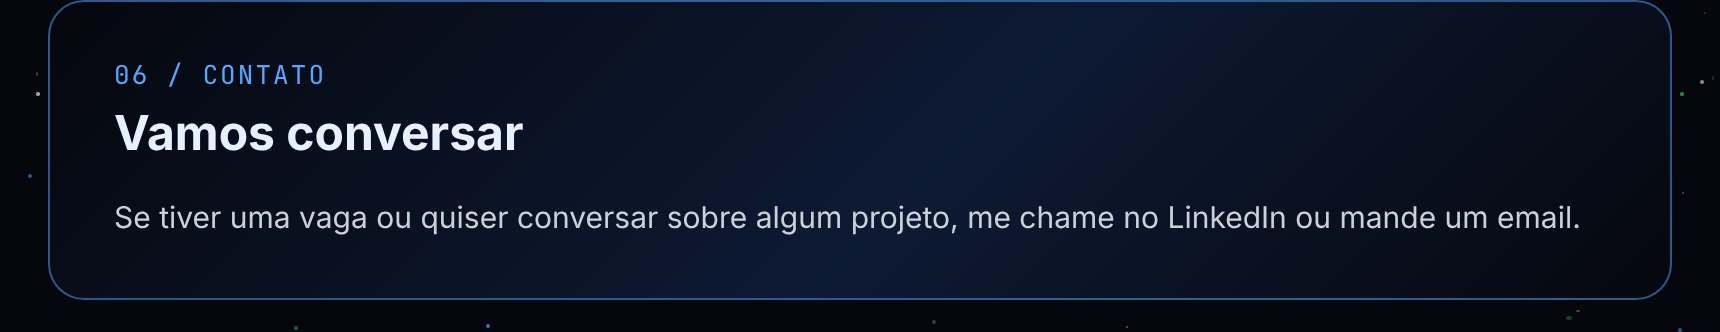
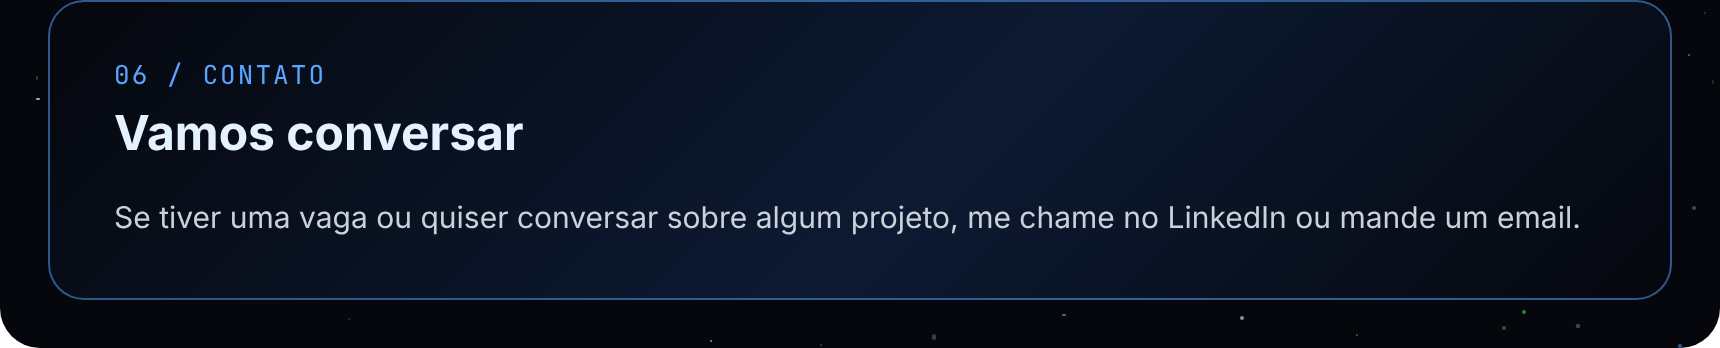
docs: remover botões de contato duplicados do fim

diff --git a/scripts/readme-sections.html b/scripts/readme-sections.html
@@ -30,8 +30,7 @@
   .third p { font-size: 12.5px; line-height: 1.5; margin-bottom: 7px; }
   .top { padding-top: 24px; }
   .top.l { border-top-left-radius: 20px; } .top.r { border-top-right-radius: 20px; }
-  .bottom { padding-bottom: 28px; }
-  .bottom.c-l { border-bottom-left-radius: 20px; } .bottom.c-r { border-bottom-right-radius: 20px; }
+  .end { padding-bottom: 24px; border-bottom-left-radius: 20px; border-bottom-right-radius: 20px; }
   .card { background: linear-gradient(135deg, #05070d 0%, #0d1a33 55%, #05070d 100%); border: 1.5px solid rgba(88,166,255,.5); border-radius: 18px; padding: 28px 32px; }
   .kicker { font-family: 'JetBrains Mono', ui-monospace, Menlo, Consolas, monospace; font-size: 13px; color: var(--blue); letter-spacing: .08em; margin: 0 0 6px; }
   h2 { font-size: 24px; font-weight: 700; margin: 0 0 16px; color: var(--ink); }
@@ -142,14 +141,12 @@
   </ul>
 </div></div>
 
-<div class="slice" data-shot="contact"><div class="card">
+<div class="slice end" data-shot="contact"><div class="card">
   <div class="kicker">06 / CONTATO</div>
   <h2>Vamos conversar</h2>
   <p>Se tiver uma vaga ou quiser conversar sobre algum projeto, me chame no LinkedIn ou mande um email.</p>
 </div></div>
 
-<div class="half c-l bottom c-l" data-shot="contact-li"><div class="btn btn-li">in&nbsp; LinkedIn</div></div>
-<div class="half c-r bottom c-r" data-shot="contact-mail"><div class="btn btn-mail">✉&nbsp; Email</div></div>
 
 </body>
 </html>

diff --git a/README.md b/README.md
@@ -1,2 +1,2 @@
 <!-- README em imagens: cada peça traz o mesmo fundo e fica empilhada (align="top") sem espaço, formando um plano de fundo contínuo. Gerar PNGs: node scripts/build_readme_images.js -->
-<p><img src="./assets/readme/top-pt.png" alt="Português (atual)" width="50%" align="top" /><a href="versions/README-en.md"><img src="./assets/readme/top-en.png" alt="English" width="50%" align="top" /></a><img src="./assets/hero-pt-panel.svg" alt="Rafael Tanimoto — backend Java, Spring Boot e Android" width="100%" align="top" /><img src="./assets/readme/chips.png" alt="Aberto a oportunidades · São Paulo, remoto ou híbrido · inglês fluente" width="100%" align="top" /><a href="https://www.linkedin.com/in/rafaeltanimoto/"><img src="./assets/readme/social-li.png" alt="LinkedIn" width="50%" align="top" /></a><a href="mailto:rafaelandradetanimoto@gmail.com"><img src="./assets/readme/social-mail.png" alt="Email" width="50%" align="top" /></a><img src="./assets/city-panel.svg" alt="Cidade animada das minhas contribuições no GitHub" width="100%" align="top" /><img src="./assets/readme/about.png" alt="01 / Sobre: backend Java e Spring Boot, apps Android em Kotlin. Procuro vaga júnior em backend Java ou Android, remota ou híbrida." width="100%" align="top" /><img src="./assets/overview-panel.svg" alt="Estatísticas do GitHub e linguagens mais usadas" width="100%" align="top" /><img src="./assets/readme/cases-title.png" alt="02 / Estudos de caso" width="100%" align="top" /><a href="https://github.com/Famel-svg/SafePix_Async"><img src="./assets/readme/case-1.png" alt="Estudo de caso 1: Pagamento que não duplica — SafePix Async" width="33.372%" align="top" /></a><a href="https://github.com/Famel-svg/Sistema_Auditoria_PIX"><img src="./assets/readme/case-2.png" alt="Estudo de caso 2: Quem mexeu nisso? — Auditoria PIX" width="33.256%" align="top" /></a><a href="https://github.com/Famel-svg/estoque-reserva"><img src="./assets/readme/case-3.png" alt="Estudo de caso 3: O último item do estoque — Estoque Reserva" width="33.372%" align="top" /></a><img src="./assets/readme/projects-title.png" alt="03 / Todos os projetos" width="100%" align="top" /><a href="https://github.com/Famel-svg/SafePix_Async"><img src="./assets/readme/p-safepix.png" alt="SafePix Async" width="50%" align="top" /></a><a href="https://github.com/Famel-svg/Sistema_Auditoria_PIX"><img src="./assets/readme/p-auditoria.png" alt="Auditoria PIX" width="50%" align="top" /></a><a href="https://github.com/Famel-svg/estoque-reserva"><img src="./assets/readme/p-estoque.png" alt="Estoque Reserva" width="50%" align="top" /></a><a href="https://github.com/Famel-svg/reserva-salas"><img src="./assets/readme/p-salas.png" alt="Reserva de Salas" width="50%" align="top" /></a><a href="https://github.com/Famel-svg/biblioteca-emprestimos"><img src="./assets/readme/p-biblioteca.png" alt="Biblioteca Empréstimos" width="50%" align="top" /></a><a href="https://github.com/Famel-svg/auth-rbac-starter"><img src="./assets/readme/p-auth.png" alt="Auth RBAC Starter" width="50%" align="top" /></a><a href="https://github.com/Famel-svg/Sistema_De_Controle_Financeiro"><img src="./assets/readme/p-financeiro.png" alt="Controle Financeiro" width="50%" align="top" /></a><a href="https://github.com/Famel-svg/springboot_simple_store"><img src="./assets/readme/p-store.png" alt="Simple Store" width="50%" align="top" /></a><a href="https://github.com/Famel-svg/WTC_Chat"><img src="./assets/readme/p-wtc.png" alt="WTC CRM Chat" width="50%" align="top" /></a><a href="https://github.com/Famel-svg/fluxo-android"><img src="./assets/readme/p-fluxo.png" alt="Fluxo" width="50%" align="top" /></a><a href="https://github.com/Famel-svg/repforge"><img src="./assets/readme/p-repforge.png" alt="RepForge" width="50%" align="top" /></a><a href="https://github.com/Famel-svg/apk-preview-desktop"><img src="./assets/readme/p-apk.png" alt="APK Preview Desktop" width="50%" align="top" /></a><a href="https://github.com/Famel-svg/Brave_CLI"><img src="./assets/readme/p-brave.png" alt="Brave CLI" width="50%" align="top" /></a><a href="https://github.com/Famel-svg/combustiveis-sql-analytics"><img src="./assets/readme/p-combustiveis.png" alt="Combustíveis SQL Analytics" width="50%" align="top" /></a><a href="https://github.com/Famel-svg/painel-combustiveis-powerbi"><img src="./assets/readme/p-powerbi.png" alt="Painel Power BI" width="50%" align="top" /></a><img src="./assets/readme/p-empty.png" alt="" width="50%" align="top" /><img src="./assets/stack-pt-panel.svg" alt="04 / Stack: Java 21, Kotlin, SQL, Python, Spring Boot, Spring Security, JPA, PostgreSQL, Flyway, RabbitMQ, JUnit 5, Testcontainers, Docker, GitHub Actions, Jetpack Compose, Prometheus, Grafana" width="100%" align="top" /><img src="./assets/readme/education.png" alt="05 / Formação: FIAP (2026), Anhembi Morumbi (não concluído), qualificações FIAP" width="100%" align="top" /><img src="./assets/readme/contact.png" alt="06 / Contato" width="100%" align="top" /><a href="https://www.linkedin.com/in/rafaeltanimoto/"><img src="./assets/readme/contact-li.png" alt="LinkedIn" width="50%" align="top" /></a><a href="mailto:rafaelandradetanimoto@gmail.com"><img src="./assets/readme/contact-mail.png" alt="Email" width="50%" align="top" /></a></p>
+<p><img src="./assets/readme/top-pt.png" alt="Português (atual)" width="50%" align="top" /><a href="versions/README-en.md"><img src="./assets/readme/top-en.png" alt="English" width="50%" align="top" /></a><img src="./assets/hero-pt-panel.svg" alt="Rafael Tanimoto — backend Java, Spring Boot e Android" width="100%" align="top" /><img src="./assets/readme/chips.png" alt="Aberto a oportunidades · São Paulo, remoto ou híbrido · inglês fluente" width="100%" align="top" /><a href="https://www.linkedin.com/in/rafaeltanimoto/"><img src="./assets/readme/social-li.png" alt="LinkedIn" width="50%" align="top" /></a><a href="mailto:rafaelandradetanimoto@gmail.com"><img src="./assets/readme/social-mail.png" alt="Email" width="50%" align="top" /></a><img src="./assets/city-panel.svg" alt="Cidade animada das minhas contribuições no GitHub" width="100%" align="top" /><img src="./assets/readme/about.png" alt="01 / Sobre: backend Java e Spring Boot, apps Android em Kotlin. Procuro vaga júnior em backend Java ou Android, remota ou híbrida." width="100%" align="top" /><img src="./assets/overview-panel.svg" alt="Estatísticas do GitHub e linguagens mais usadas" width="100%" align="top" /><img src="./assets/readme/cases-title.png" alt="02 / Estudos de caso" width="100%" align="top" /><a href="https://github.com/Famel-svg/SafePix_Async"><img src="./assets/readme/case-1.png" alt="Estudo de caso 1: Pagamento que não duplica — SafePix Async" width="33.372%" align="top" /></a><a href="https://github.com/Famel-svg/Sistema_Auditoria_PIX"><img src="./assets/readme/case-2.png" alt="Estudo de caso 2: Quem mexeu nisso? — Auditoria PIX" width="33.256%" align="top" /></a><a href="https://github.com/Famel-svg/estoque-reserva"><img src="./assets/readme/case-3.png" alt="Estudo de caso 3: O último item do estoque — Estoque Reserva" width="33.372%" align="top" /></a><img src="./assets/readme/projects-title.png" alt="03 / Todos os projetos" width="100%" align="top" /><a href="https://github.com/Famel-svg/SafePix_Async"><img src="./assets/readme/p-safepix.png" alt="SafePix Async" width="50%" align="top" /></a><a href="https://github.com/Famel-svg/Sistema_Auditoria_PIX"><img src="./assets/readme/p-auditoria.png" alt="Auditoria PIX" width="50%" align="top" /></a><a href="https://github.com/Famel-svg/estoque-reserva"><img src="./assets/readme/p-estoque.png" alt="Estoque Reserva" width="50%" align="top" /></a><a href="https://github.com/Famel-svg/reserva-salas"><img src="./assets/readme/p-salas.png" alt="Reserva de Salas" width="50%" align="top" /></a><a href="https://github.com/Famel-svg/biblioteca-emprestimos"><img src="./assets/readme/p-biblioteca.png" alt="Biblioteca Empréstimos" width="50%" align="top" /></a><a href="https://github.com/Famel-svg/auth-rbac-starter"><img src="./assets/readme/p-auth.png" alt="Auth RBAC Starter" width="50%" align="top" /></a><a href="https://github.com/Famel-svg/Sistema_De_Controle_Financeiro"><img src="./assets/readme/p-financeiro.png" alt="Controle Financeiro" width="50%" align="top" /></a><a href="https://github.com/Famel-svg/springboot_simple_store"><img src="./assets/readme/p-store.png" alt="Simple Store" width="50%" align="top" /></a><a href="https://github.com/Famel-svg/WTC_Chat"><img src="./assets/readme/p-wtc.png" alt="WTC CRM Chat" width="50%" align="top" /></a><a href="https://github.com/Famel-svg/fluxo-android"><img src="./assets/readme/p-fluxo.png" alt="Fluxo" width="50%" align="top" /></a><a href="https://github.com/Famel-svg/repforge"><img src="./assets/readme/p-repforge.png" alt="RepForge" width="50%" align="top" /></a><a href="https://github.com/Famel-svg/apk-preview-desktop"><img src="./assets/readme/p-apk.png" alt="APK Preview Desktop" width="50%" align="top" /></a><a href="https://github.com/Famel-svg/Brave_CLI"><img src="./assets/readme/p-brave.png" alt="Brave CLI" width="50%" align="top" /></a><a href="https://github.com/Famel-svg/combustiveis-sql-analytics"><img src="./assets/readme/p-combustiveis.png" alt="Combustíveis SQL Analytics" width="50%" align="top" /></a><a href="https://github.com/Famel-svg/painel-combustiveis-powerbi"><img src="./assets/readme/p-powerbi.png" alt="Painel Power BI" width="50%" align="top" /></a><img src="./assets/readme/p-empty.png" alt="" width="50%" align="top" /><img src="./assets/stack-pt-panel.svg" alt="04 / Stack: Java 21, Kotlin, SQL, Python, Spring Boot, Spring Security, JPA, PostgreSQL, Flyway, RabbitMQ, JUnit 5, Testcontainers, Docker, GitHub Actions, Jetpack Compose, Prometheus, Grafana" width="100%" align="top" /><img src="./assets/readme/education.png" alt="05 / Formação: FIAP (2026), Anhembi Morumbi (não concluído), qualificações FIAP" width="100%" align="top" /><img src="./assets/readme/contact.png" alt="06 / Contato" width="100%" align="top" /></p>
